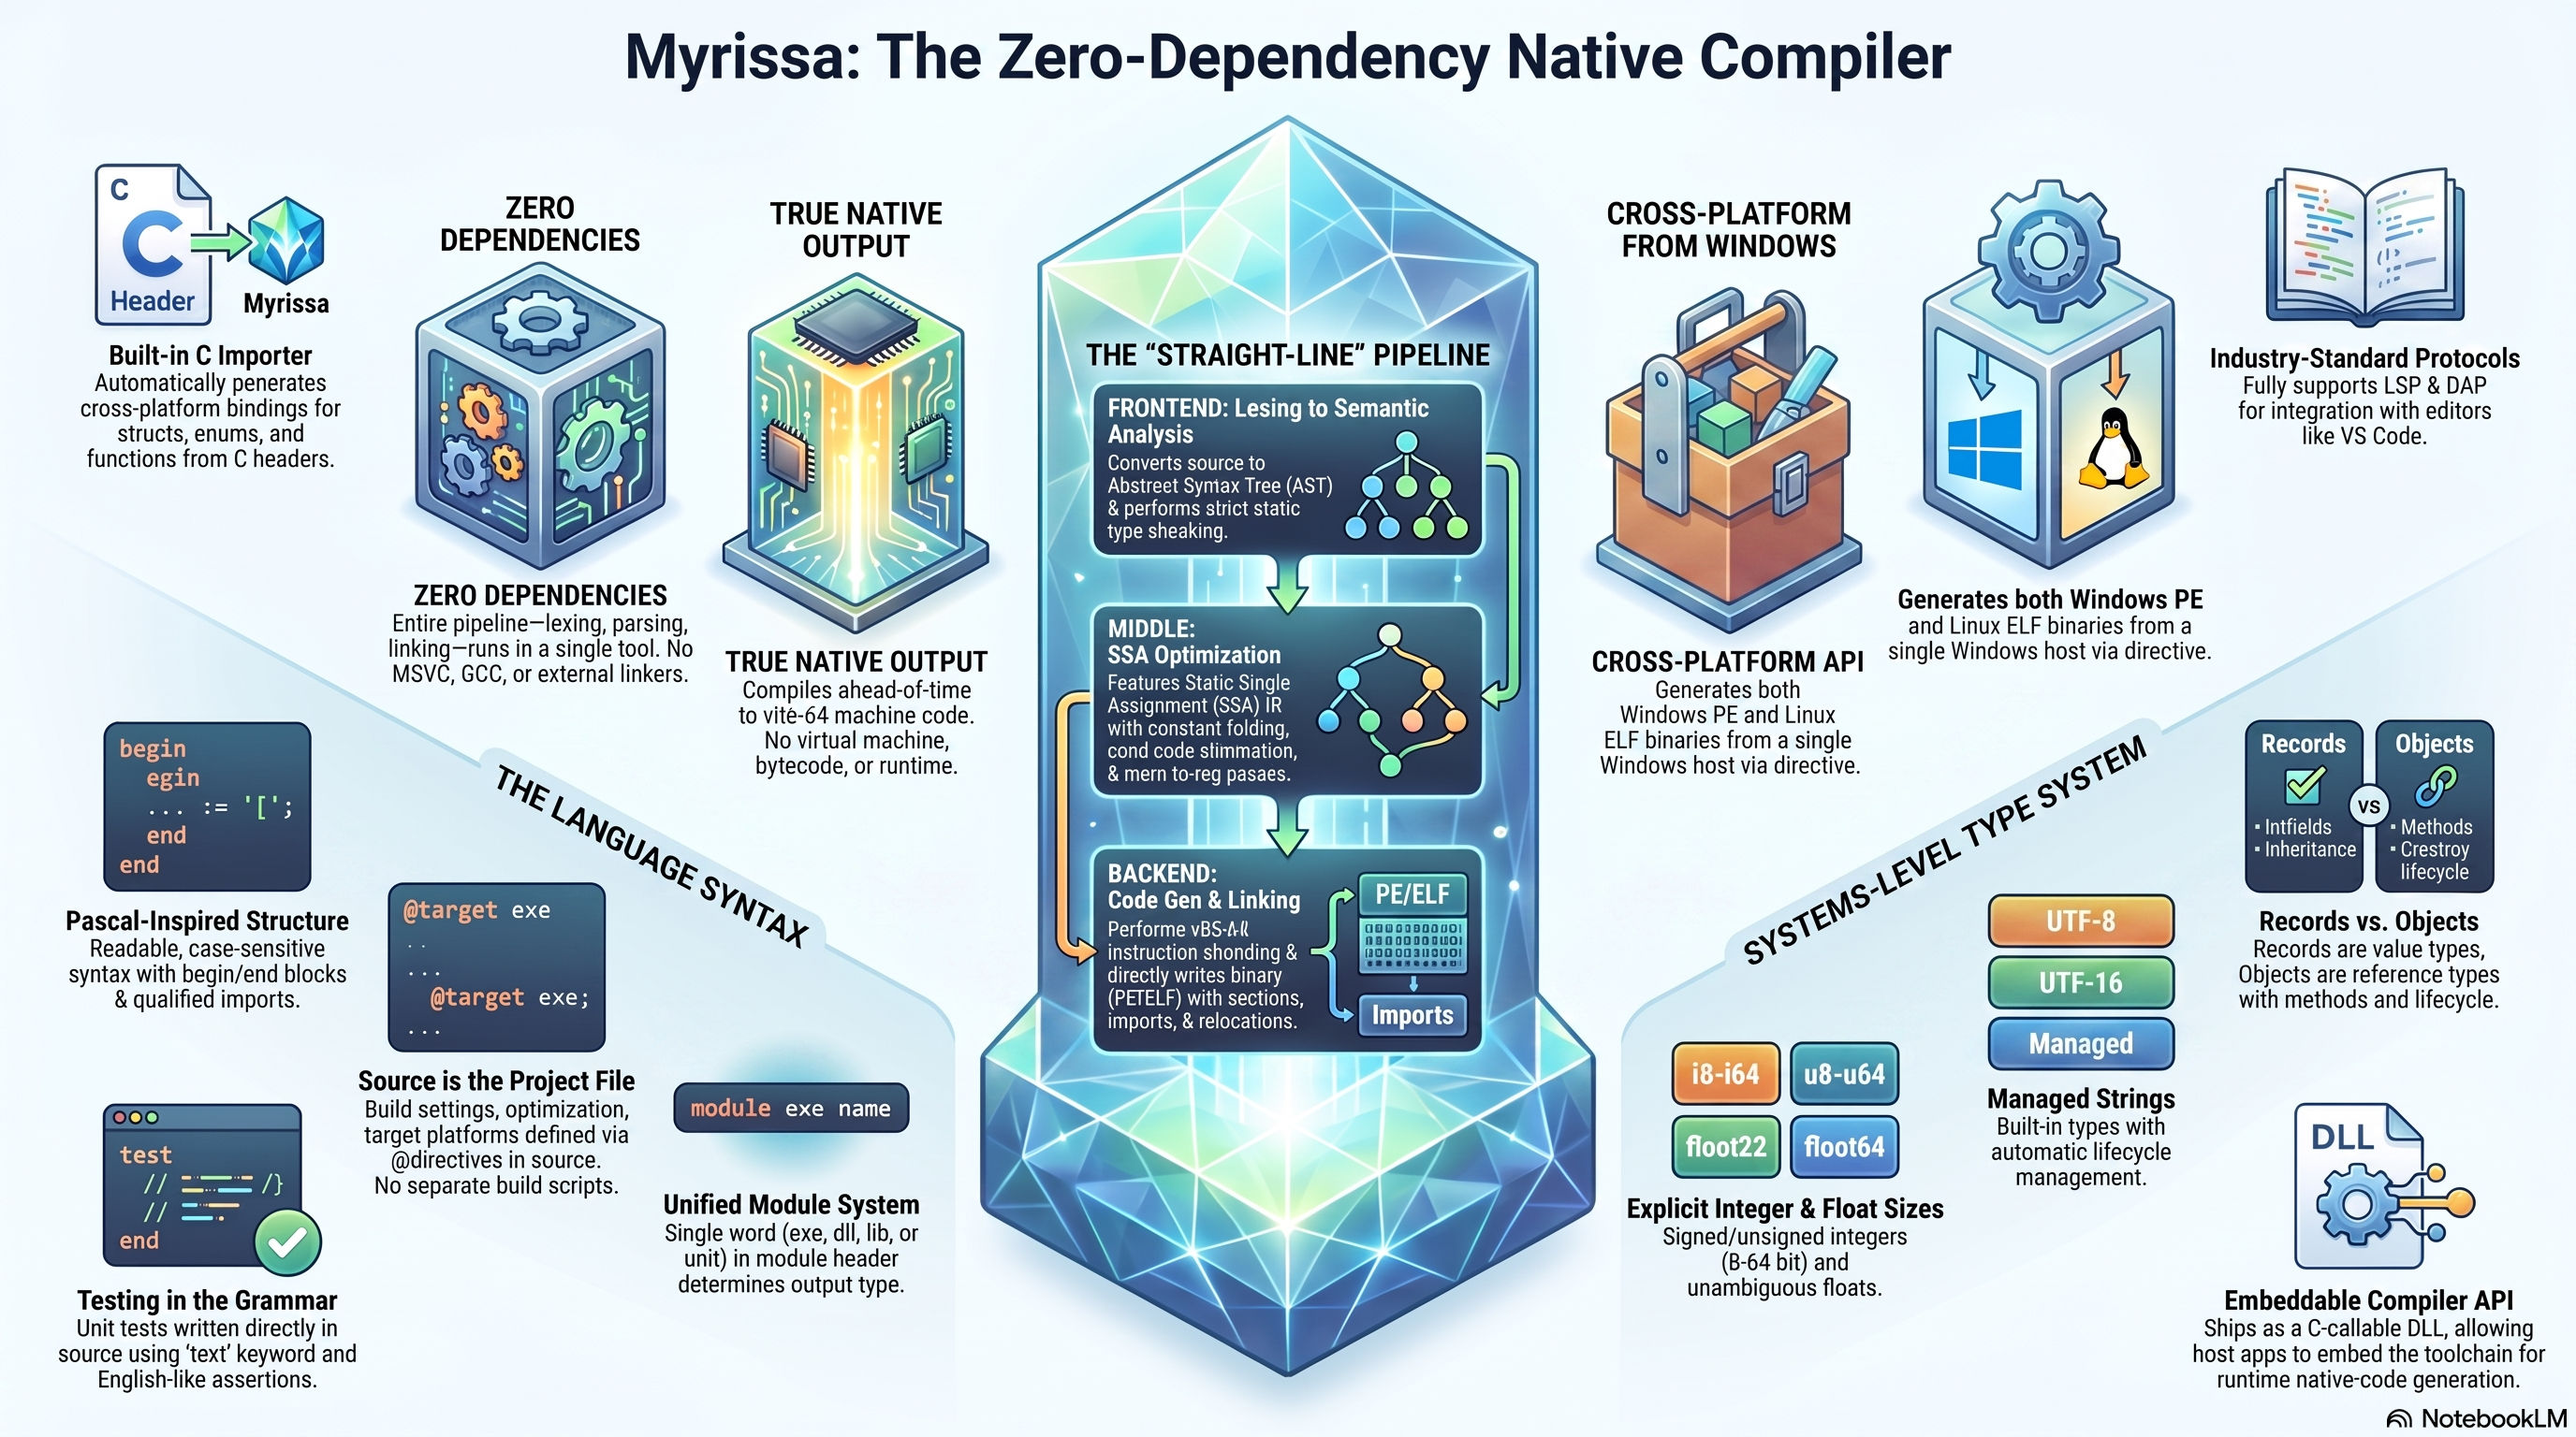
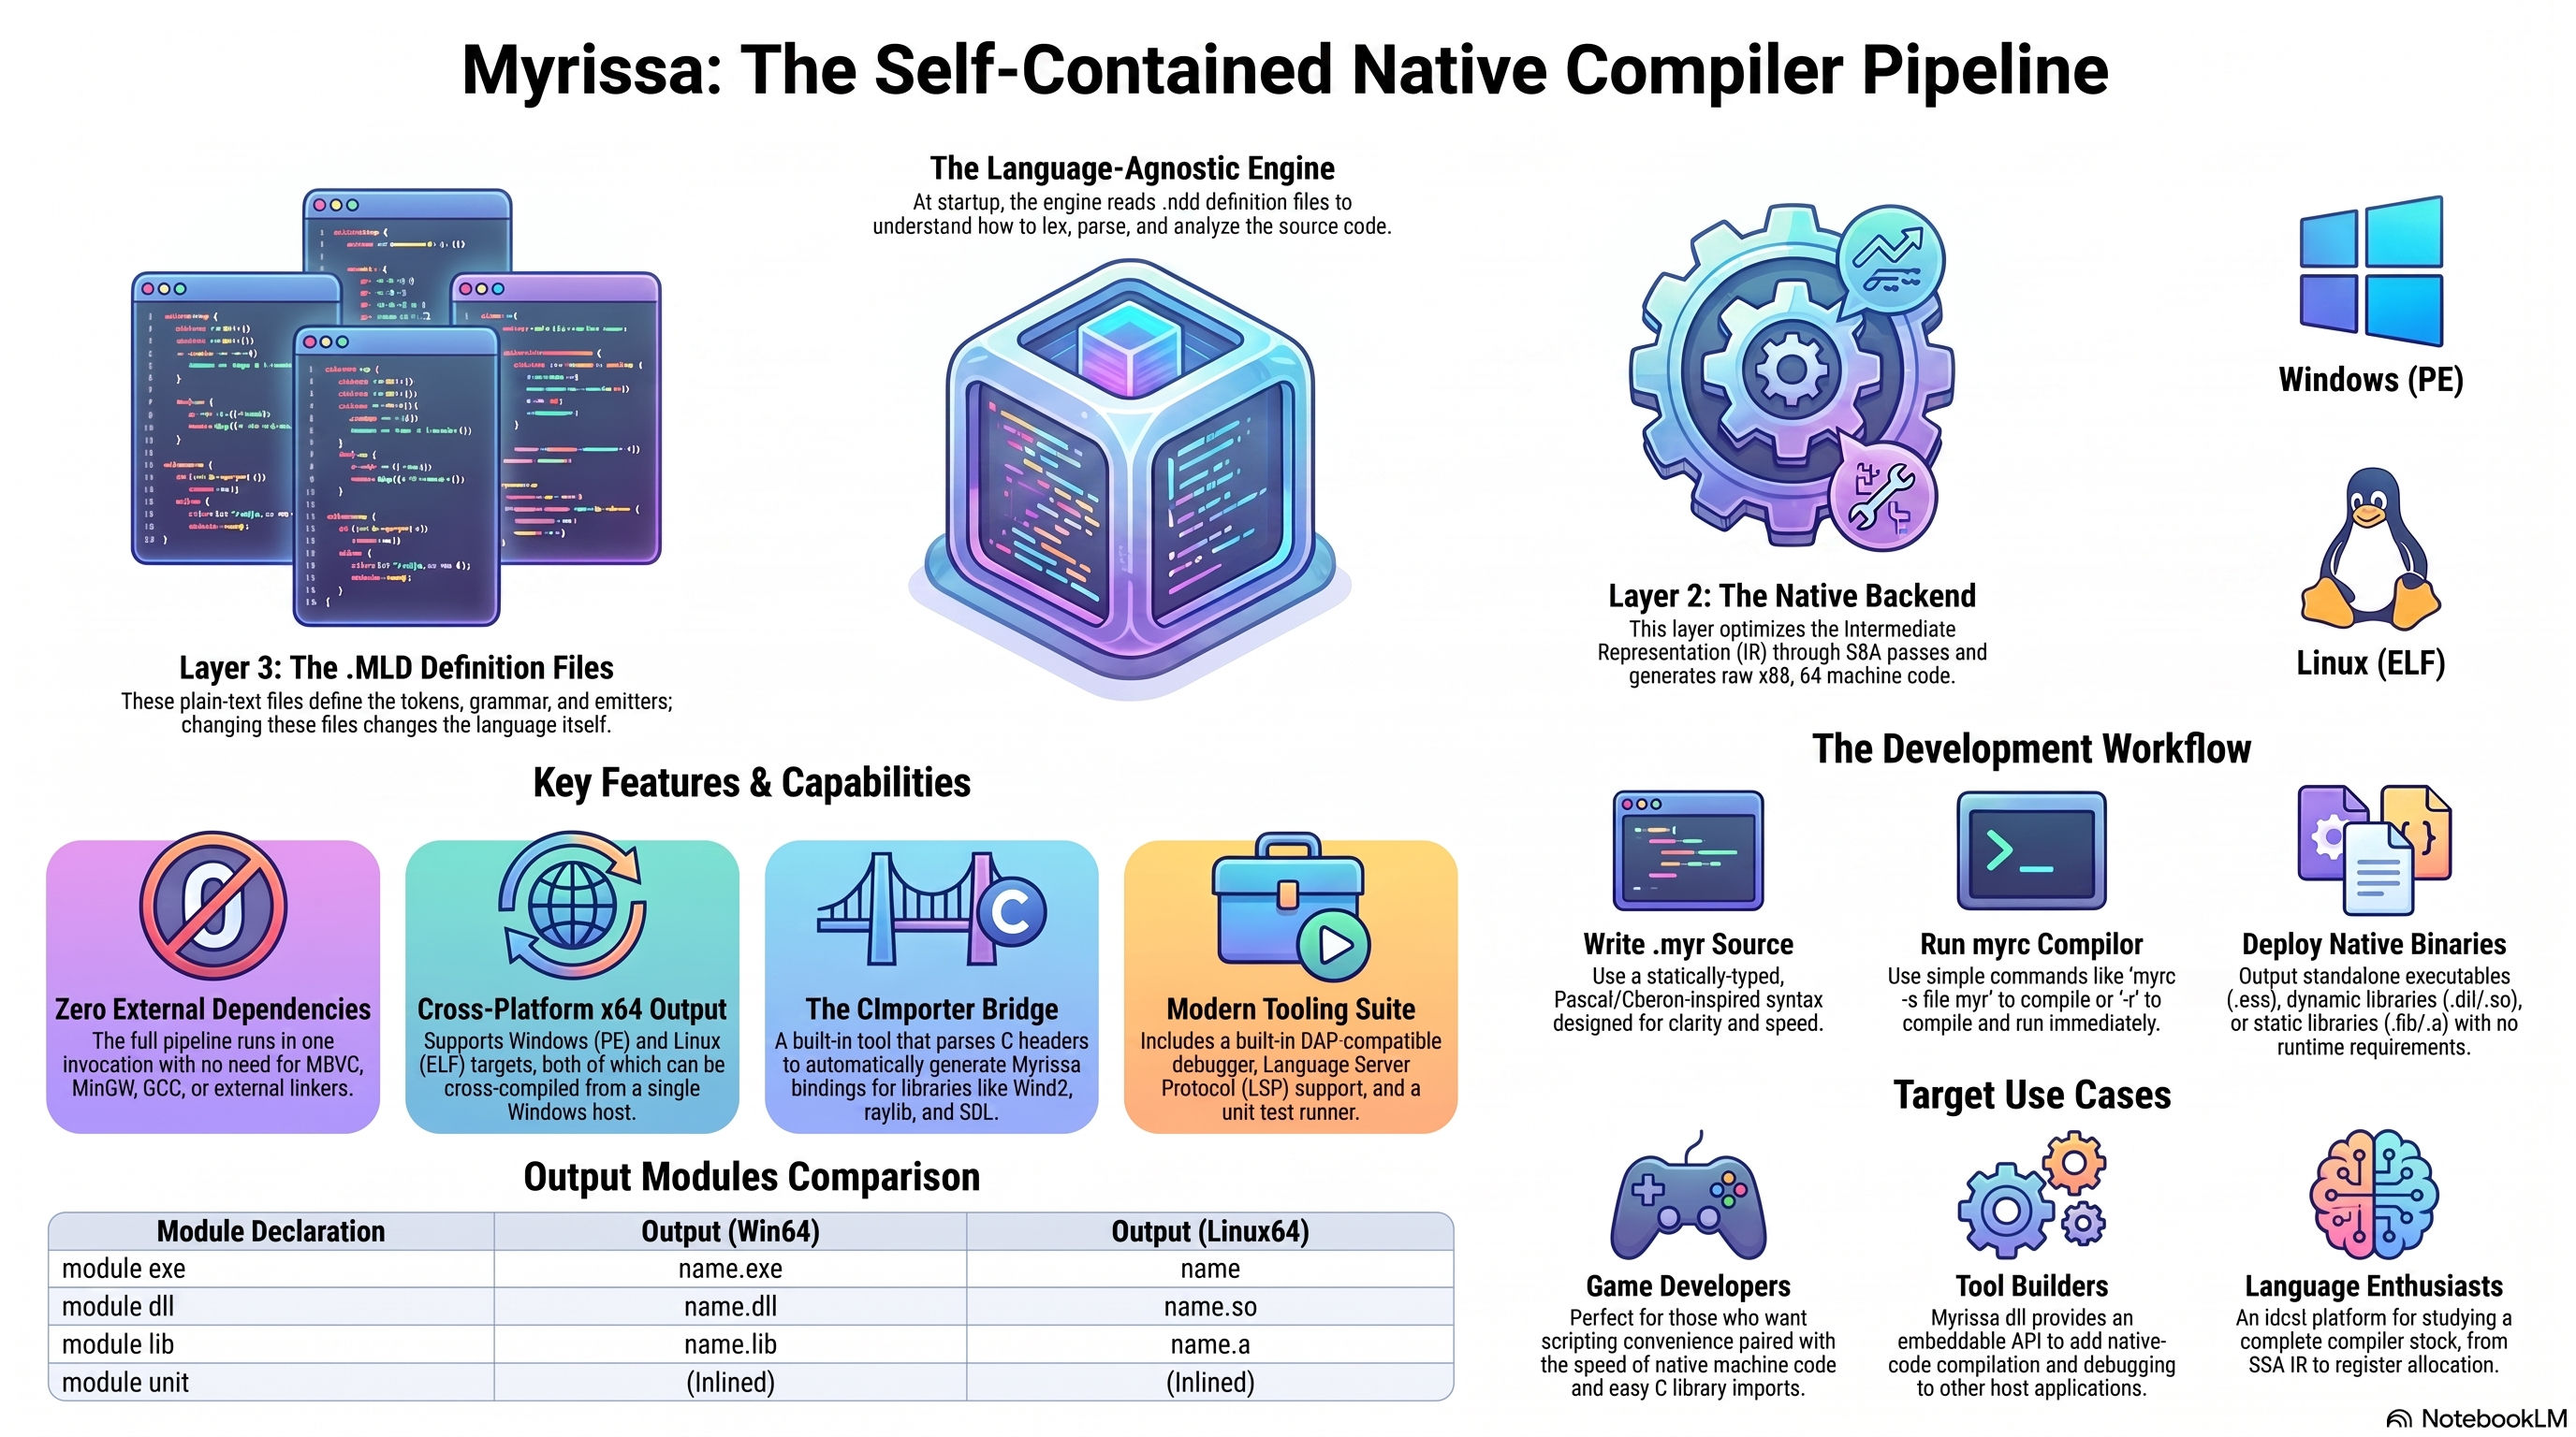
update readme

diff --git a/README.md b/README.md
@@ -24,7 +24,7 @@ Compile and run:
 myrc -s hello.myr -r
 ```
 
-Myrissa compiles ahead-of-time through a complete in-process pipeline: lexer, parser, AST, semantic analysis, SSA-based IR with optimization passes, x64 register allocation and instruction encoding, and PE or ELF linking with sections, imports, exports, and relocations. The entire toolchain runs in a single invocation on Windows -- the `@target win64|linux64;` directive selects the platform, and Linux binaries are cross-compiled without any Linux toolchain installed. There is nothing to install, configure, or depend on.
+Myrissa compiles ahead-of-time through a three-layer architecture. Layer 1 is a language-agnostic engine that reads `.mld` definition files at startup -- these plain-text files define the entire language: tokens, grammar, semantic rules, and code generation. Layer 2 is the native backend: SSA-based IR with optimization passes, x64 register allocation and instruction encoding, and PE or ELF linking with sections, imports, exports, and relocations. Layer 3 is the `.mld` files themselves -- change them and you change the language without recompiling the compiler. The entire toolchain runs in a single invocation on Windows -- the `@target win64|linux64;` directive selects the platform, and Linux binaries are cross-compiled without any Linux toolchain installed. There is nothing to install, configure, or depend on.
 
 The language takes its syntax philosophy from Pascal and Oberon: `begin..end` blocks, `:=` assignment, strong static typing, and a module system that keeps code organized. Case-sensitive, semicolon-delimited, and designed to be readable at a glance.
 
@@ -71,6 +71,8 @@ Myrissa is for developers who want native x64 output without fighting the toolch
 - **Conditional compilation**: `@define`, `@ifdef`, `@ifndef`, `@elseif`, `@else`, `@endif` with predefined platform and module-kind symbols (`TARGET_WIN64`, `TARGET_LINUX64`, `DEBUG`, `RELEASE`, and more) -- working in imported units too.
 - **Version info and icons**: Embed Windows version information and application icons into executables via directives. No post-build steps or resource compilers required.
 - **SSA optimization**: Mem2Reg, constant folding, and dead code elimination passes on the intermediate representation.
+- **Language defined by MLD files**: The entire language -- tokens, grammar, semantic rules, and code generation -- is defined in editable `.mld` plain-text files that the engine reads at startup. The compiler itself is a language-agnostic engine; Myrissa is one definition it runs. Change an `.mld` file and you change the language without recompiling the compiler.
+- **Official test suite**: 26 test files covering every major BNF section (literals, arithmetic, comparison, control flow, match, strings, wide strings, routines, constants, records, arrays, pointers, sets, choices, objects, overlays, guard/except, memory, intrinsics, variadics, conditional compilation, type casts, unsigned integers, routine types, and globals), all passing on both win64 and linux64.
 
 ## 🚀 Getting Started
 
@@ -176,7 +178,7 @@ The full language reference, BNF grammar, toolchain guide, API reference, and ho
 
 | Document | Description |
 |----------|-------------|
-| **[Myrissa Language Reference](https://github.com/tinyBigGAMES/Myrissa/blob/main/docs/Myrissa.md)** | Complete language tour with examples: types, routines, records, objects, choices, sets, overlays, arrays, strings, control flow, exceptions, memory management, pointers, variadics, modules, external declarations, DLL loading, conditional compilation, unit testing, directives, the full BNF grammar, toolchain usage, and the embeddable API reference. |
+| **[Myrissa Language Reference](https://github.com/tinyBigGAMES/Myrissa/blob/main/docs/Myrissa.md)** | Complete language tour with examples: types, routines, records, objects, choices, sets, overlays, arrays, strings, control flow, exceptions, memory management, pointers, variadics, modules, external declarations, DLL loading, conditional compilation, unit testing, directives, the full BNF grammar, MLD meta-language reference, toolchain usage, and the embeddable API reference. |
 
 
 ## 🔨 Getting Myrissa
